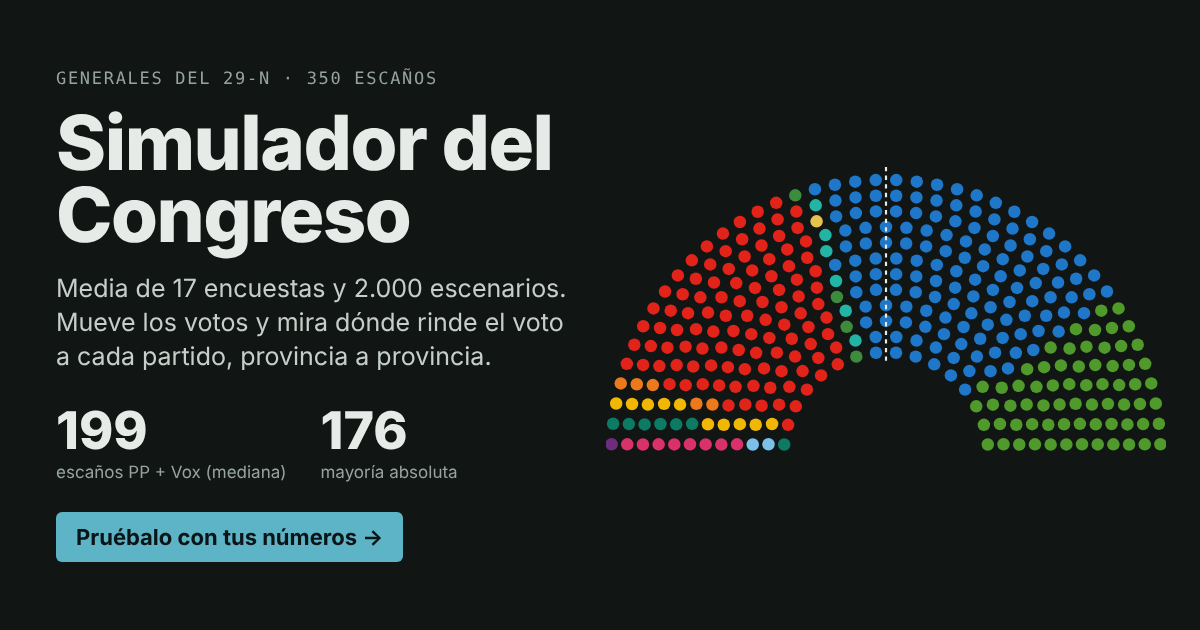
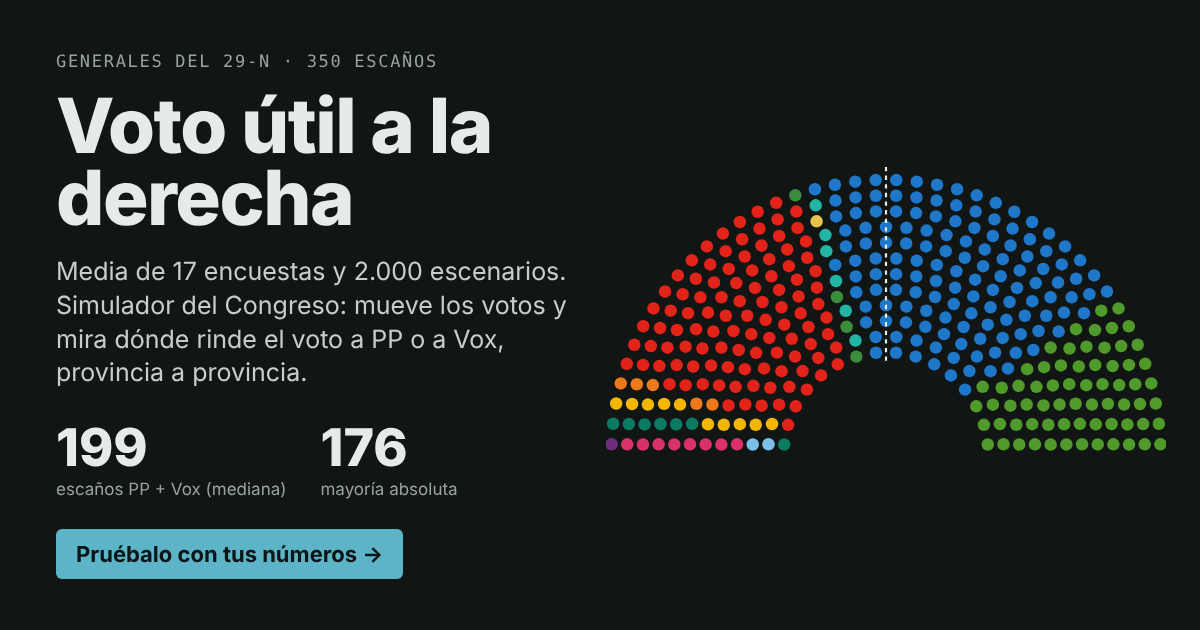
Renombra la página a «Voto útil a la derecha»
Claude-Session: https://claude.ai/code/session_01LnVmn7mvsCawCkqNQCrFji

Changed region(s): [[0.0308, 0.0905, 0.4933, 0.6032], [0.0308, 0.8143, 0.3392, 0.9349], [0.0308, 0.6333, 0.4008, 0.7841]]

diff --git a/index.html b/index.html
@@ -1,10 +1,10 @@
 <!doctype html>
 <html lang="es"><head><meta charset="utf-8"><meta name="viewport" content="width=device-width,initial-scale=1,viewport-fit=cover">
 <meta name="description" content="Simulador bayesiano de escaños del Congreso para las generales del 29 de noviembre de 2026: media de encuestas, sensibilidad por partido y voto útil por provincia.">
-<meta property="og:title" content="Simulador del Congreso"><meta property="og:description" content="Mueve los votos y mira dónde rinde el voto a cada partido, provincia a provincia.">
+<meta property="og:title" content="Voto útil a la derecha"><meta property="og:description" content="Mueve los votos y mira dónde rinde el voto a cada partido, provincia a provincia.">
 <meta property="og:type" content="website"><meta property="og:image" content="https://talfarouriarte-cloud.github.io/simulador-congreso/docs/portada.png"><meta property="og:url" content="https://talfarouriarte-cloud.github.io/simulador-congreso/">
 <meta name="twitter:card" content="summary_large_image"><style>:root{padding-top:env(safe-area-inset-top);padding-bottom:env(safe-area-inset-bottom)}body{margin:0;font-size:14px}img{max-width:100%}[hidden]{display:none!important}</style></head><body>
-<title>Simulador del Congreso</title>
+<title>Voto útil a la derecha</title>
 <meta name="claude:viewport-fit-sides" content="cover">
 <link rel="preconnect" href="https://fonts.googleapis.com">
 <link rel="stylesheet" href="https://fonts.googleapis.com/css2?family=Archivo:wdth,wght@75..125,400..800&family=IBM+Plex+Mono:wght@400;500&display=swap">
@@ -125,7 +125,7 @@ tr.clk{cursor:pointer} tr.clk:hover td{background:var(--surface-2)}
   <header class="top">
     <div class="stack" style="gap:6px">
       <span class="eyebrow">Generales del 29 de noviembre de 2026 · 350 escaños · 52 circunscripciones · D'Hondt con umbral del 3%</span>
-      <h1>Simulador del Congreso</h1>
+      <h1>Voto útil a la derecha</h1>
     </div>
     <div class="status" id="status">Calculando…</div>
   </header>

diff --git a/model/template.html b/model/template.html
@@ -1,4 +1,4 @@
-<title>Simulador del Congreso</title>
+<title>Voto útil a la derecha</title>
 <meta name="claude:viewport-fit-sides" content="cover">
 <link rel="preconnect" href="https://fonts.googleapis.com">
 <link rel="stylesheet" href="https://fonts.googleapis.com/css2?family=Archivo:wdth,wght@75..125,400..800&family=IBM+Plex+Mono:wght@400;500&display=swap">
@@ -119,7 +119,7 @@ tr.clk{cursor:pointer} tr.clk:hover td{background:var(--surface-2)}
   <header class="top">
     <div class="stack" style="gap:6px">
       <span class="eyebrow">Generales del 29 de noviembre de 2026 · 350 escaños · 52 circunscripciones · D'Hondt con umbral del 3%</span>
-      <h1>Simulador del Congreso</h1>
+      <h1>Voto útil a la derecha</h1>
     </div>
     <div class="status" id="status">Calculando…</div>
   </header>

diff --git a/model/build_page.py b/model/build_page.py
@@ -21,7 +21,7 @@ s=open(os.path.join(ROOT,'model','template.html')).read().replace('__DATA__',jso
 HEAD='''<!doctype html>
 <html lang="es"><head><meta charset="utf-8"><meta name="viewport" content="width=device-width,initial-scale=1,viewport-fit=cover">
 <meta name="description" content="Simulador bayesiano de escaños del Congreso para las generales del 29 de noviembre de 2026: media de encuestas, sensibilidad por partido y voto útil por provincia.">
-<meta property="og:title" content="Simulador del Congreso"><meta property="og:description" content="Mueve los votos y mira dónde rinde el voto a cada partido, provincia a provincia.">
+<meta property="og:title" content="Voto útil a la derecha"><meta property="og:description" content="Mueve los votos y mira dónde rinde el voto a cada partido, provincia a provincia.">
 <meta property="og:type" content="website"><meta property="og:image" content="__SITE__docs/portada.png"><meta property="og:url" content="__SITE__">
 <meta name="twitter:card" content="summary_large_image"><style>:root{padding-top:env(safe-area-inset-top);padding-bottom:env(safe-area-inset-bottom)}body{margin:0;font-size:14px}img{max-width:100%}[hidden]{display:none!important}</style></head><body>
 '''

diff --git a/README.md b/README.md
@@ -1,4 +1,4 @@
-# Simulador del Congreso · Generales 29-N 2026
+# Voto útil a la derecha · Generales 29-N 2026
 
 Simulador de escaños del Congreso de los Diputados para las elecciones generales del 29 de noviembre de 2026. Parte de una media bayesiana de encuestas y permite mover los supuestos para ver cómo cambia el reparto, nacional y por provincia, y dónde rinde más el voto a Vox o al PP para el bloque PP+Vox.
 
